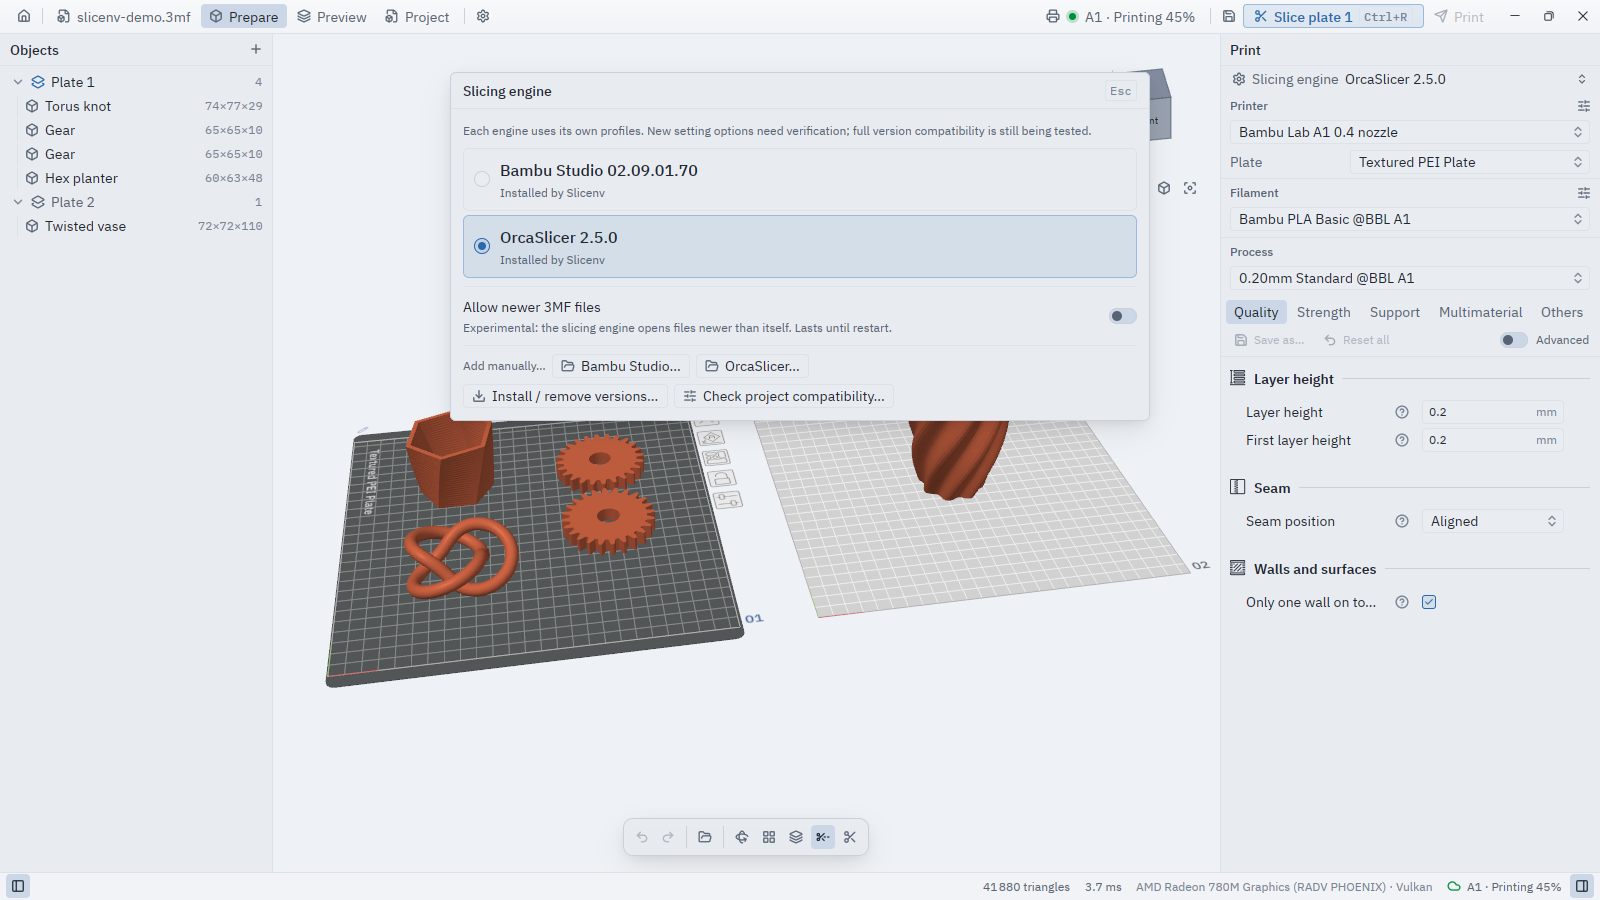
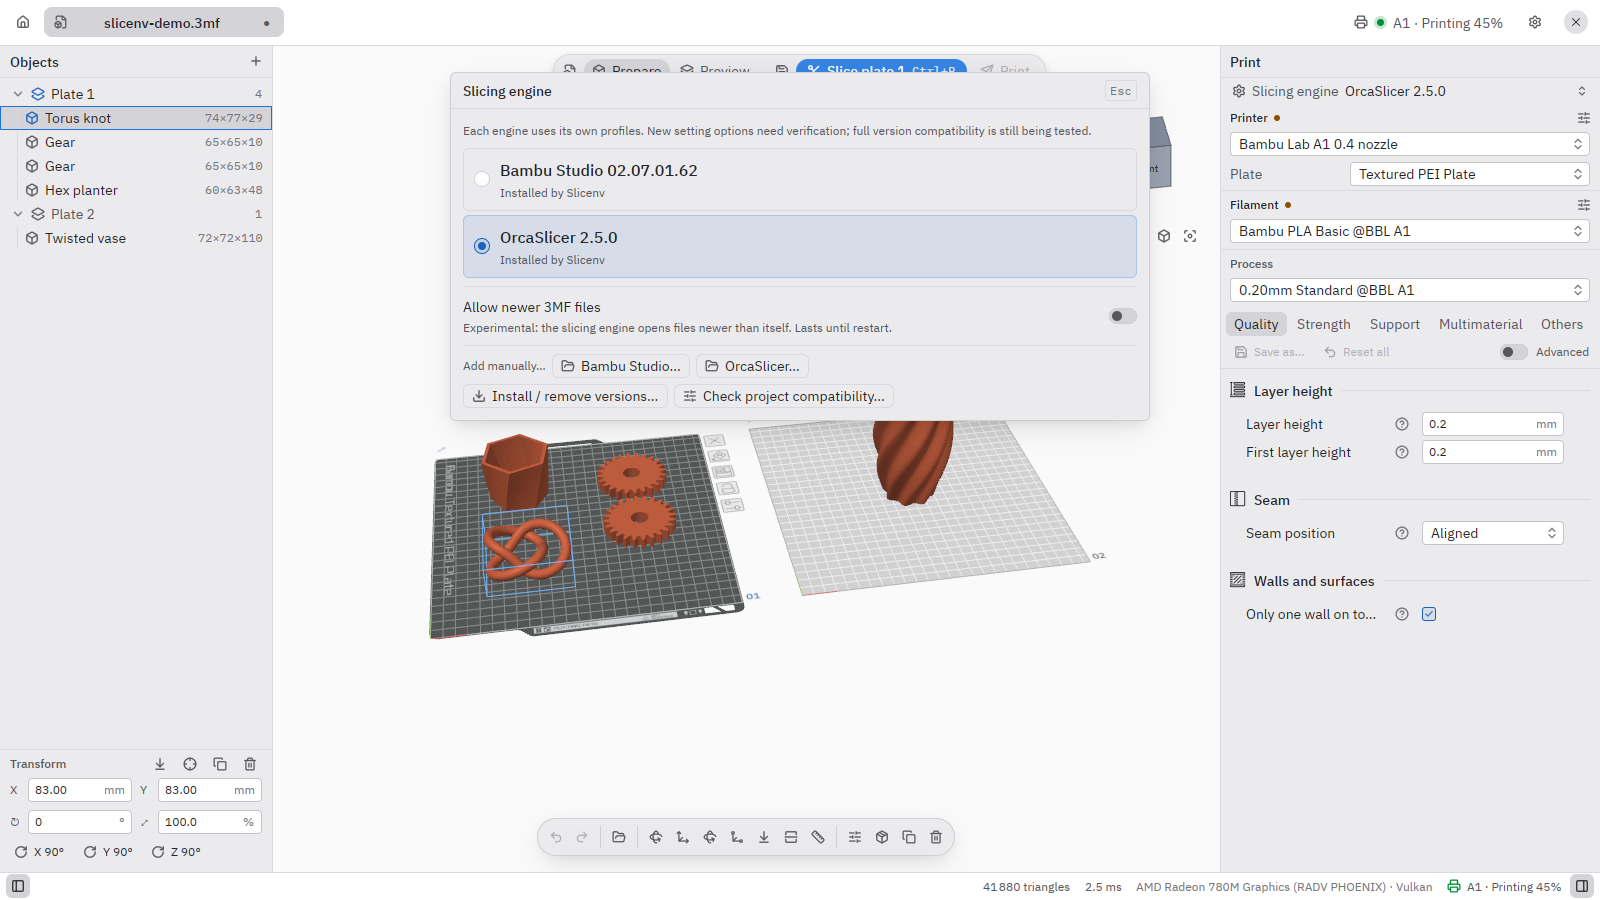
Версія 0.1.5: нові знімки екрана, нотатки релізу

diff --git a/packaging/screenshots/README.md b/packaging/screenshots/README.md
@@ -1,6 +1,6 @@
 # Скриншоти для Flathub / AppStream
 
-PNG 1600×900 (16:9), світла тема, англійський інтерфейс. На них посилається
+PNG 1600×900 (16:9), світла тема, шкіра GNOME, англійський інтерфейс. На них посилається
 `<screenshots>` у `crates/app/assets/app/app.borys.slicenv.metainfo.xml` за URL
 `https://raw.githubusercontent.com/arximus88/slicenv/v<версія>/packaging/screenshots/<файл>` —
 тож після зміни файлів потрібен новий тег, а URL у metainfo — на нього.
@@ -9,19 +9,20 @@ PNG 1600×900 (16:9), світла тема, англійський інтерф
 |---|---|---|
 | `01-home.png` | Головна: бібліотека моделей з мініатюрами | Home: model library… |
 | `02-prepare.png` | Підготовка: дві пластини, вибраний об’єкт, налаштування процесу | Prepare: objects on build plates… |
-| `03-preview-layers.png` | Preview «Шари» після нарізки, повзунок на шарі 77 | Preview: sliced layers… |
+| `03-preview-layers.png` | Preview «Шари» після нарізки, повзунок на шарі 79 | Preview: sliced layers… |
 | `04-preview-photo.png` | Preview «Фото» з матеріалом PLA | Photo view… |
 | `05-profile-editor.png` | Редактор профілю філаменту (Advanced) | Profile editor… |
-| `06-engines.png` | Меню «Рушій нарізки»: OrcaSlicer 2.5.0 і Bambu Studio 02.09.01.70 | Slicing engine menu… |
+| `06-engines.png` | Меню «Рушій нарізки»: OrcaSlicer 2.5.0 і Bambu Studio 02.07.01.62 | Slicing engine menu… |
 | `07-device.png` | Сторінка «Пристрій» з фіктивним принтером (`SLICENV_FAKE_PRINTER=1`) | Device: printer status… |
 
-## Як знято (2026-11-09)
+## Як знято (2026-11-12, для 0.1.5)
 
-Справжній застосунок — **Flatpak-бандл** з `packaging/flatpak/app.borys.slicenv.yml`
-(`tools/package.sh flatpak`), Radeon 780M (Vulkan) у headless mutter
-(`tools/screenshots/headless.sh`), тимчасовий HOME. Рушії встановлено менеджером рушіїв
-усередині пісочниці. Жодних особистих даних: моделі згенеровані, принтер фіктивний, хмара й
-LAN вимкнені, хостові конфіги не змонтовані.
+Справжній застосунок — нативна release-збірка з `main` (`cargo build --release -p app`),
+шкіра GNOME (`SLICENV_SKIN=gnome`), світла тема, Radeon 780M (Vulkan) у headless mutter,
+тимчасовий HOME. Рушії OrcaSlicer 2.5.0 і Bambu Studio 02.07.01.62 — копії керованих рушіїв
+у тимчасовій теці даних. Жодних особистих даних: моделі згенеровані, принтер фіктивний
+(`SLICENV_FAKE_PRINTER=1`), хмара й LAN вимкнені. Знімки 0.1.0 знято з Flatpak-бандла
+(`tools/screenshots/headless.sh flatpak`) — цей шлях теж робочий.
 
 Моделі власні, процедурні (без сторонніх ліцензій):
 ```sh

diff --git a/docs/releases/v0.1.5.md b/docs/releases/v0.1.5.md
@@ -1,0 +1,22 @@
+# Slicenv 0.1.5
+
+## Зміни
+
+- GNOME: кнопки вікна й дії заголовка беруться з системних налаштувань і змінюються без перезапуску — розкладка кнопок (згорнути, розгорнути, бік), подвійний, середній і правий клік по заголовку з GNOME Tweaks.
+- Пояснення, чому камера через хмару недоступна, показується мовою інтерфейсу (раніше лишалось українською в англійському інтерфейсі).
+- Вікно «Є незбережені зміни пресетів» під час зміни рушія: довгі значення на кшталт G-code скорочуються до початку першого рядка й більше не вилазять поверх кнопок; замість шляху до файлу показано назву рушія.
+- Нові знімки екрана в описі застосунку: шкіра GNOME, вкладки, OrcaSlicer 2.5.0.
+- Тести проходять на macOS (обидві архітектури) і Windows; Flatpak проходить перевірку Flathub.
+
+## Перевірка
+
+- Повна перевірка (переклади, clippy, тести) пройшла локально; CI зелений на Linux, macOS aarch64/x86_64, Windows, AUR і Flatpak з linter Flathub.
+- Збірку 0.1.4 для Windows перевірено на справжній машині: встановлення, нарізка в OrcaSlicer 2.5.0, передача в Bambu Connect і друк.
+- Виправлене вікно незбережених змін знято на екрані в ізольованому сеансі.
+
+## Відомі межі
+
+- Клацання, перетягування й подвійний клік у заголовку шкіри GNOME не перевірялись мишею.
+- Переклад пояснення про камеру перевірено лише тестом, не на справжньому принтері.
+- Збірки для macOS не підписані й не запускались на справжній машині; збірка для Windows не підписана.
+- Нарізка лише в активній вкладці; закриття вікна не питає про незбережені зміни.
